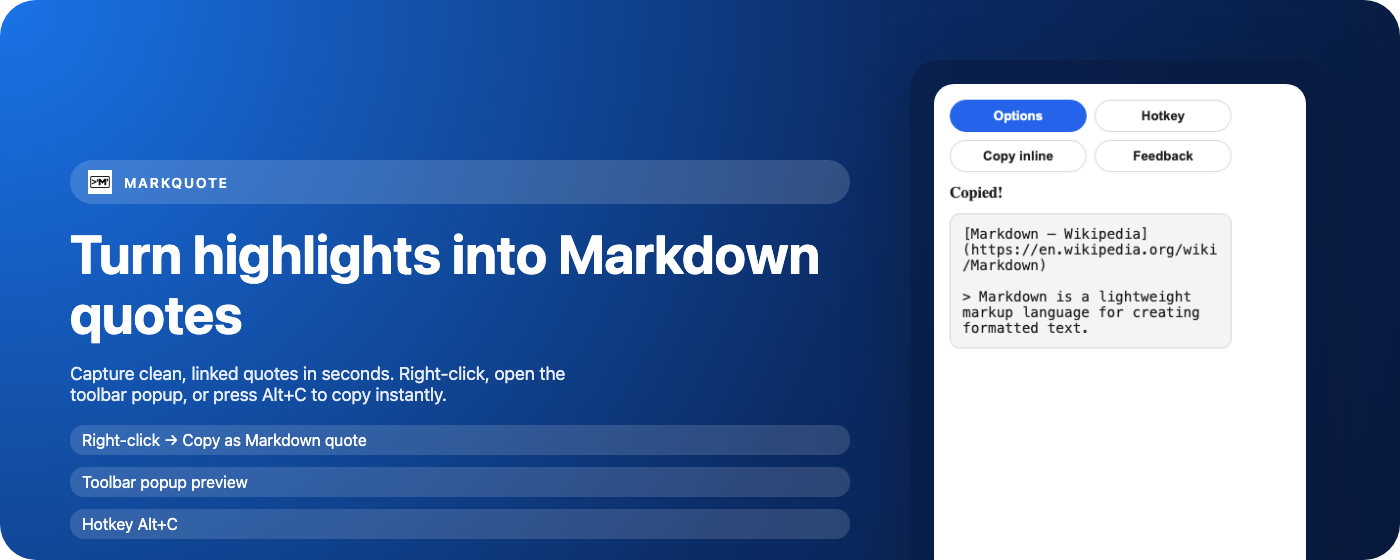
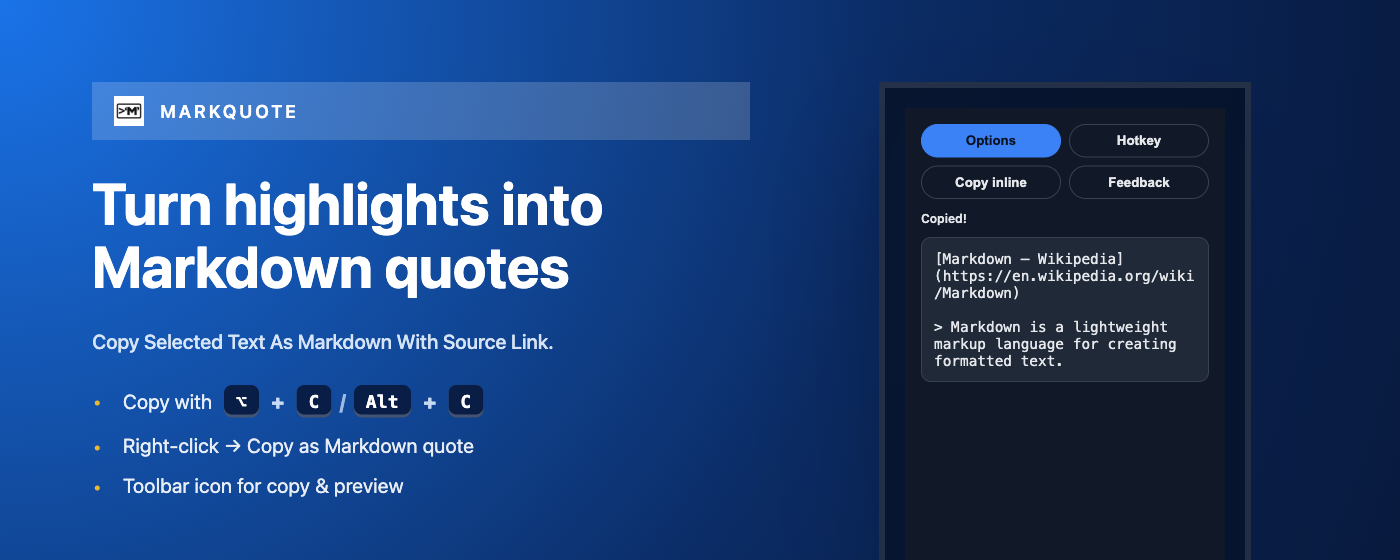
chore(storefront): align popup capture width

diff --git a/docs/storefront/chrome-web-store/templates/promo-marquee.html b/docs/storefront/chrome-web-store/templates/promo-marquee.html
@@ -9,105 +9,169 @@
 
       body {
         margin: 0;
-        font-family: 'Inter', 'Segoe UI', system-ui, sans-serif;
+        font-family: "Inter", "Segoe UI", system-ui, sans-serif;
       }
 
       .tile {
         width: 1400px;
         height: 560px;
-        border-radius: 36px;
-        background: radial-gradient(circle at top left, #1a73e8 0%, #0b2b64 60%, #08193d 100%);
+        background: radial-gradient(
+          circle at top left,
+          #1a73e8 0%,
+          #0b2b64 60%,
+          #08193d 100%
+        );
         color: #fff;
-        padding: 60px 70px;
+        padding: 82px 92px;
         display: grid;
-        grid-template-columns: 1fr 420px;
-        gap: 60px;
-        align-items: center;
+        grid-template-columns: 1.15fr 0.85fr;
+        gap: 72px;
+        align-items: stretch;
       }
 
-      .headline {
+      .copy-panel {
         display: flex;
         flex-direction: column;
-        gap: 20px;
+        gap: 32px;
       }
 
       .headline-badge {
         display: inline-flex;
         align-items: center;
-        gap: 12px;
-        padding: 10px 18px;
-        border-radius: 999px;
-        background: rgba(255, 255, 255, 0.16);
+        gap: 16px;
+        padding: 14px 22px;
+        background: rgba(255, 255, 255, 0.18);
         text-transform: uppercase;
-        font-size: 14px;
-        letter-spacing: 0.12em;
+        font-size: 18px;
+        letter-spacing: 0.16em;
         font-weight: 600;
       }
 
       .headline-badge img {
-        width: 24px;
-        height: 24px;
+        width: 30px;
+        height: 30px;
       }
 
       h1 {
         margin: 0;
-        font-size: 54px;
-        line-height: 1.1;
+        font-size: 58px;
+        line-height: 1.08;
       }
 
-      p {
+      .description {
         margin: 0;
-        font-size: 18px;
-        opacity: 0.9;
         max-width: 520px;
+        font-size: 20px;
+        font-weight: 500;
+        color: rgba(234, 244, 255, 0.9);
+        text-transform: capitalize;
       }
 
-      .preview {
-        background: rgba(8, 25, 61, 0.6);
-        border-radius: 28px;
-        padding: 24px;
-        box-shadow: 0 24px 60px rgba(15, 23, 42, 0.5);
-      }
-
-      .preview img {
-        width: 100%;
-        border-radius: 20px;
-      }
-
-      .triggers {
+      .methods {
+        margin: 0;
+        padding: 0;
+        list-style: none;
         display: flex;
         flex-direction: column;
-        gap: 12px;
-        font-size: 16px;
+        gap: 16px;
+        font-size: 20px;
+        letter-spacing: 0.01em;
+        color: rgba(255, 255, 255, 0.9);
       }
 
-      .triggers span {
+      .methods li {
+        display: flex;
+        align-items: center;
+        gap: 12px;
+      }
+
+      .methods li::before {
+        content: "•";
+        color: rgba(251, 191, 36, 0.92);
+        font-size: 24px;
+        line-height: 1;
+        margin-right: 8px;
+      }
+
+      .hotkey-line {
         display: inline-flex;
         align-items: center;
         gap: 8px;
-        background: rgba(255, 255, 255, 0.14);
+      }
+
+      .hotkey-line kbd {
         padding: 6px 12px;
-        border-radius: 14px;
+        border-radius: 8px;
+        background: rgba(8, 25, 61, 0.9);
+        color: #fff;
+        font-size: 18px;
+        font-weight: 700;
+        box-shadow: inset 0 -3px 0 rgba(255, 255, 255, 0.24);
+      }
+
+      .markquote-key-plus {
+        color: rgba(219, 234, 254, 0.9);
+        font-weight: 800;
+        margin: 0 4px;
+      }
+
+      .hotkey-slash {
+        color: rgba(219, 234, 254, 0.7);
+        font-weight: 700;
+      }
+
+      .visual-panel {
+        position: relative;
+        display: flex;
+        align-items: center;
+        justify-content: center;
+      }
+
+      .popup-frame {
+        display: inline-flex;
+        padding: 20px;
+        border: 6px solid rgba(255, 255, 255, 0.12);
+        background: rgba(6, 17, 38, 0.85);
+        box-shadow: 0 48px 120px rgba(8, 25, 61, 0.55);
+      }
+
+      .popup-frame img {
+        display: block;
+        width: 320px;
+        height: auto;
+        box-shadow: 0 18px 50px rgba(8, 25, 61, 0.5);
       }
     </style>
   </head>
   <body>
     <div class="tile">
-      <div class="headline">
+      <div class="copy-panel">
         <div class="headline-badge">
           <img src="{{ICON}}" alt="MarkQuote icon" />
           <span>MarkQuote</span>
         </div>
         <h1>Turn highlights into Markdown quotes</h1>
-        <p>Capture clean, linked quotes in seconds. Right-click, open the toolbar popup, or press {{HOTKEY}} to copy instantly.</p>
-        <div class="triggers">
-          <span>Right-click → Copy as Markdown quote</span>
-          <span>Toolbar popup preview</span>
-          <span>Hotkey {{HOTKEY}}</span>
-        </div>
+        <p class="description">
+          Copy selected text as markdown with source link.
+        </p>
+        <ul class="methods">
+          <li>
+            Copy with
+            <span class="hotkey-line">
+              <kbd>⌥</kbd><span class="markquote-key-plus">+</span><kbd>C</kbd>
+              <span class="hotkey-slash">/</span>
+              <kbd>Alt</kbd><span class="markquote-key-plus">+</span
+              ><kbd>C</kbd>
+            </span>
+          </li>
+          <li>Right-click → Copy as Markdown quote</li>
+          <li>Toolbar icon for copy &amp; preview</li>
+        </ul>
       </div>
-      <div class="preview">
-        <img src="{{POPUP_IMAGE}}" alt="MarkQuote popup preview" />
+      <div class="visual-panel">
+        <div class="popup-frame">
+          <img src="{{POPUP_IMAGE}}" alt="MarkQuote popup preview" />
+        </div>
       </div>
     </div>
   </body>

diff --git a/scripts/package/tools/chrome-assets/helper/sizing.ts b/scripts/package/tools/chrome-assets/helper/sizing.ts
@@ -32,7 +32,7 @@ export const CAPTURE_SIZING: Record<CaptureKind, CaptureSizingConfig> = {
     frame: "viewport",
   },
   popup: {
-    viewport: { width: 380, height: 540 },
+    viewport: { width: 320, height: 520 },
     frame: "viewport",
   },
 };
